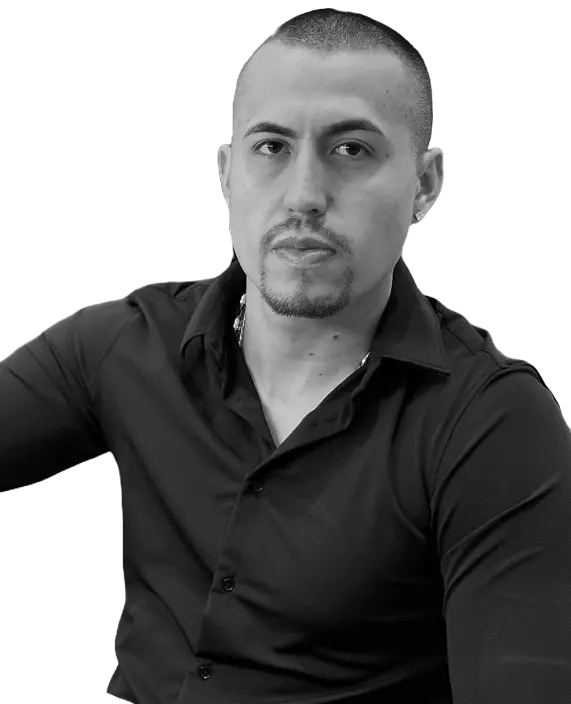
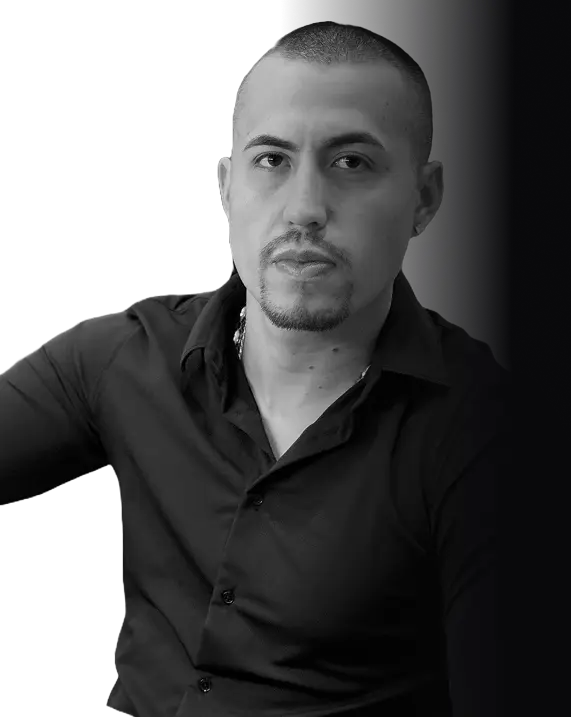
Actualizar estilos y textos en varias secciones para mejorar la presentación y la accesibilidad

diff --git a/src/app/components/ScrollSection.jsx b/src/app/components/ScrollSection.jsx
@@ -36,26 +36,27 @@ function ScrollSection() {
   }, []);
 
   return (
-    <div className="scroll-section-outer">
+    <div className="scroll-section-outer  ">
 
 
-      <div ref={triggerRef} >
-
-      <h2 className="mb-4 mt-12 max-lg:mt-4 tracking-tight max-lg:px-4 text-white max-sm:text-3xl text-4xl lg:w-1/2 m-auto max-xl:w-full max-md:px-2 text-center">
+      <div className="content-scroll" ref={triggerRef} >
+        
+      <h2 className="mb-4 mt-12 max-lg:mt-4 tracking-tight max-lg:px-4 text-white text-2xl md:text-5xl max-xl:text-center  m-auto max-xl:w-full max-md:px-2 text-center">
           Una Vida de Aprendizaje y Superación
         </h2>
 
-        <div ref={sectionRef} className="scroll-section-inner pt-12 max-lg:pt-20 ">
-        <article className="rounded-2xl  w-6xl p-6 max-lg:w-full m-auto flex flex-col gap-2 max-lg:px-4">
-          <h3 className="mb-4 tracking-tight text-white max-sm:text-xl text-2xl max-lg:px-2">
+
+        <div ref={sectionRef} className="scroll-section-inner mt-40  max-md:mt-0">
+        <article className="rounded-2xl  max-w-7xl p-6 max-lg:w-full m-auto flex flex-col gap-2 ">
+          <h3 className="mb-4 text-4xl  tracking-tight text-white max-sm:text-xl  max-lg:px-2">
             Del Sueño a la Realidad
           </h3>
-          <p className="text-zinc-300 descp leading-7 max-2xl:px-2 tracking-wider text-balance break-words">
+          <p className="text-zinc-300 descp leading-7 max-2xl:px-2 tracking-wider text-xl max-sm:text-base  break-words">
             Desde pequeño, entendí que el mundo tenía algo más grande reservado para mí. Crecí viendo a mi familia
             esforzarse sin descanso, y eso encendió en mí una determinación inquebrantable. No quería vivir con
             limitaciones, sabía que mi destino dependía de mis decisiones.
           </p>
-          <p className="text-zinc-300 descp leading-7 max-2xl:px-2 tracking-wider text-balance">
+          <p className="text-zinc-300 descp  text-xl max-sm:text-base leading-7 max-2xl:px-2 tracking-wider ">
             Mi primer negocio lo inicié a los 14 años, negociando con el rector de mi colegio para pasear los perros
             de seguridad a cambio de un pago diario. También vendía dulces en la escuela, aprendiendo el valor de la
             venta y la estrategia. Pero no todo fue aciertos; en mi adolescencia me rodeé de personas que no compartían mis valores, lo que me llevó a tomar decisiones equivocadas. Sin embargo, dentro de mí siempre existió una voz que me recordaba que podía ir más lejos.
@@ -63,45 +64,48 @@ function ScrollSection() {
       
         </article>
         <article className=" rounded-2xl  w-6xl p-6 max-lg:w-full m-auto flex flex-col gap-2 max-lg:px-4">
-            <h3 className="mb-3  text-xl text-white tracking-wider max-sm:text-lg">
-               Renuncia, Fracaso y Renacimiento
+            <h3 className="mb-3  text-4xl text-white tracking-wider max-sm:text-xl">
+            Primer Negocio, Primeras Lecciones
             </h3>
-            <p className="text-zinc-300 leading-7 tracking-wider mb-2 ">
-            Trabajé en una pizzería y, con el apoyo de mi padre, abrí mi propio negocio. Al principio, fue un éxito, pero pronto me di cuenta de que la rutina me consumía. Decidí cerrarla y, como consecuencia, mi padre dejó de apoyarme económicamente. Fue un golpe duro, pero una oportunidad para reinventarme.
-            </p>
-            <p className="text-zinc-300 leading-7 tracking-wider">
-            Trabajé en ventas con marcas reconocidas como Diesel y Comercializadora Baldini, lo que me llevó a estudiar Negocios Internacionales, costeando mi primer semestre con mis propios ahorros. Luego, conseguí una oportunidad en una empresa aliada a Scotiabank Colpatria, donde escalé rápidamente hasta ser contratado por el banco. La estabilidad era tentadora, pero el deseo de emprender nunca desapareció.
-            </p>
-          </article>
-          <article className="  rounded-2xl  w-6xl p-6 max-lg:w-full m-auto flex flex-col gap-2 max-lg:px-4">
-            <h3 className="mb-3 text-xl text-white tracking-wider max-sm:text-lg">
-               Renuncia, Fracaso y Renacimiento
-            </h3>
-            <p className="text-zinc-300 leading-7 tracking-wider mb-2 ">
+            <p className="text-zinc-300 leading-7 tracking-wider mb-2 text-xl max-sm:text-base ">
             Fundé una empresa de eventos y logística mientras trabajaba en el banco. Conseguí contratos importantes, incluso con la misma empresa donde trabajaba. Pero llegó un punto en el que tuve que elegir: estabilidad o independencia. Decidí renunciar.
             </p>
-            <p className="text-zinc-300 leading-7 tracking-wider ">
+            <p className="text-zinc-300 leading-7 tracking-wider text-xl max-sm:text-base ">
             Al principio, todo parecía ir bien, pero sin una estructura financiera sólida, terminé gastando más de lo que generaba. Caí en una crisis financiera y emocional, tocando fondo. Solo, sin apoyo familiar y con deudas, enfrenté la peor etapa de mi vida.
             </p>
-            <p className="text-zinc-300 leading-7 tracking-wider ">
+            <p className="text-zinc-300 leading-7 tracking-wider text-xl max-sm:text-base">
             Pero rendirse nunca fue una opción. Decidí salir del país y empezar de nuevo, con una mentalidad renovada y enfocada en la estrategia.
             </p>
           </article>
-          <article className=" rounded-2xl ]  w-6xl p-6 max-lg:w-full m-auto flex flex-col gap-4 max-lg:px-4">
-            <h3 className="mb-3  text-xl   text-white tracking-wider max-sm:text-lg">
+          <article className="  rounded-2xl  w-6xl p-6 max-lg:w-full m-auto flex flex-col gap-2 max-lg:px-4">
+            <h3 className="mb-3 text-4xl text-white tracking-wider max-sm:text-xl">
+               Renuncia, Fracaso y Renacimiento
+            </h3>
+            <p className="text-zinc-300 leading-7 tracking-wider mb-2 text-xl max-sm:text-base ">
+            Fundé una empresa de eventos y logística mientras trabajaba en el banco. Conseguí contratos importantes, incluso con la misma empresa donde trabajaba. Pero llegó un punto en el que tuve que elegir: estabilidad o independencia. Decidí renunciar.
+            </p>
+            <p className="text-zinc-300 leading-7 tracking-wider text-xl max-sm:text-base ">
+            Al principio, todo parecía ir bien, pero sin una estructura financiera sólida, terminé gastando más de lo que generaba. Caí en una crisis financiera y emocional, tocando fondo. Solo, sin apoyo familiar y con deudas, enfrenté la peor etapa de mi vida.
+            </p>
+            <p className="text-zinc-300 leading-7 tracking-wider text-xl  max-sm:text-base ">
+            Pero rendirse nunca fue una opción. Decidí salir del país y empezar de nuevo, con una mentalidad renovada y enfocada en la estrategia.
+            </p>
+          </article>
+          <article className=" rounded-2xl   w-6xl p-6 max-lg:w-full m-auto flex flex-col gap-4 max-lg:px-4">
+            <h3 className="mb-3  text-4xl max-sm:text-xl   text-white tracking-wider ">
               Construyendo un Imperio
             </h3>
-            <p className="text-zinc-300 leading-7 tracking-wider mb-2 ">
+            <p className="text-zinc-300 leading-7 tracking-wider mb-2 text-xl max-sm:text-base">
             Aprendí que el éxito no solo es cuestión de pasión, sino de estrategia, disciplina y visión a largo plazo.
             </p>
-            <p className="text-zinc-300 leading-7 tracking-wider ">
+            <p className="text-zinc-300 leading-7 tracking-wider text-xl max-sm:text-base">
             Hoy, lidero múltiples negocios:
             </p>
             <ul>
-                <li className="lista text-zinc-300 leading-7 tracking-wider"><span><i className="ri-arrow-right-line"></i> Una empresa de joyería y exportación de oro y diamantes.</span></li>
-                <li className="lista text-zinc-300 leading-7 tracking-wider"><span><i className="ri-arrow-right-line"></i> Una barbería premium.</span></li>
-                <li className="lista text-zinc-300 leading-7 tracking-wider"><span><i className="ri-arrow-right-line"></i>Una agencia digital.</span></li>
-                <li className="lista text-zinc-300 leading-7 tracking-wider"><span><i className="ri-arrow-right-line"></i>Una compañía de logística y venta de partes de aviones.</span></li>
+                <li className="lista text-zinc-300 leading-7 text-xl max-sm:text-base tracking-wider"><span><i className="ri-arrow-right-line"></i> Una empresa de joyería y exportación de oro y diamantes.</span></li>
+                <li className="lista text-zinc-300 leading-7 tracking-wider text-xl max-sm:text-base"><span><i className="ri-arrow-right-line"></i> Una barbería premium.</span></li>
+                <li className="lista text-xl max-sm:text-base text-zinc-300 leading-7 tracking-wider"><span><i className="ri-arrow-right-line"></i>Una agencia digital.</span></li>
+                <li className="lista text-xl max-sm:text-base text-zinc-300 leading-7 tracking-wider"><span><i className="ri-arrow-right-line"></i>Una compañía de logística y venta de partes de aviones.</span></li>
             </ul>
           </article>
           

diff --git a/src/app/sections/Hero.jsx b/src/app/sections/Hero.jsx
@@ -1,35 +1,41 @@
-import { motion } from "framer-motion";
 import heroImg from "../../../public/hero.webp"
-export const Hero = () => {
-  return (
-    <section className="text-white w-full  bg-black h-full
-    ">
-          <div className="flex flex-row-reverse max-lg:grid-cols-1  max-lg:flex-col max-w-[1600px]  mx-auto justify-between ">
-     
-            
-
-            <div className=" basis-6/12 flex flex-col bg-black p-10 max-lg:p-4">
-            <motion.h1
+import {motion} from "framer-motion"
+export const Ero = () => {
+    return (
+      <section className="  flex max-xl:flex-col-reverse pt-10  justify-center max-w-[1600px] mx-auto  relative bg-black">
+        {/* Contenedor de la imagen */}
+        <div className=" 2xl:basis-6/12 w-full h-full relative z-10 ">
+          <img 
+            src={heroImg.src}
+            alt="Historia de éxito"
+            className="img h-full  mx-auto object-cover"
+          />
+        </div>
+  
+        {/* Contenido superpuesto */}
+        <div className="relative z-20  xl:-ml-40 py-20  text-white">
+          <div className="flex flex-col gap-4 max-xl:px-4">
+          <motion.h1
               initial={{ opacity: 0, y: 20 }}
               whileInView={{ opacity: 1, y: 0 }}
               transition={{ duration: 0.8 }}
-              className="text-4xl md:text-6xl lg:text-8xl font-bold leading-tight max-lg:text-center"
+              className="text-4xl md:text-6xl lg:text-8xl font-bold leading-tight max-xl:text-center"
             >
               De la adversidad <br />
             </motion.h1>
-              <motion.span
+            <motion.span
               initial={{ opacity: 0, y: 20 }}
               whileInView={{ opacity: 1, y: 0 }}
               transition={{ duration: 0.8 }}
-              className="bg-clip-text text-transparent bg-gradient-to-l from-white to-slate-400 text-4xl md:text-6xl lg:text-8xl font-bold leading-tight max-lg:text-center">
+              className=" text-4xl md:text-6xl lg:text-8xl font-bold text-center max-sm:px-0 leading-tight px-40 ">
                 al éxito
               </motion.span>
-    
-            <motion.h2
+            
+              <motion.h2
               initial={{ opacity: 0, y: 20 }}
               whileInView={{ opacity: 1, y: 0 }}
               transition={{ duration: 0.8, delay: 0.2 }}
-              className="text-2xl md:text-3xl max-lg:text-center mt-6 "
+              className="text-2xl md:text-5xl max-xl:text-center  mt-8 "
             >
               Mi historia de transformación y crecimiento
             </motion.h2>
@@ -38,23 +44,19 @@ export const Hero = () => {
               initial={{ opacity: 0, y: 20 }}
               whileInView={{ opacity: 1, y: 0 }}
               transition={{ duration: 0.8, delay: 0.4 }}
-              className="text-lg md:text-xl text-zinc-300 mt-4  lg:max-w-lg max-lg:w-full max-lg:text-center"
+              className="text-lg md:text-xl text-white  max-lg:w-full max-xl:text-center xl:pr-10 "
             >
               De trabajador en una pizzería a fundador de múltiples negocios
               exitosos. Descubre cómo convertí mis fracasos en mi mayor fortaleza.
             </motion.p>
-          </div> 
-              
-          <img
-                className="img basis-6/12 w-full h-screen object-cover oscuro"
-                src={heroImg.src}
-                alt="Imagen de Barbershop"
-              />
-              <motion.div
+  
+          </div>
+        </div>
+            <motion.div
         initial={{ opacity: 0, y: 20 }}
         whileInView={{ opacity: 1, y: 0 }}
         transition={{ duration: 0.8, delay: 0.6 }}
-        className="absolute bottom-10 left-1/2 -translate-x-1/2 z-10"
+        className="absolute bottom-2 left-1/2 -translate-x-1/2 z-10"
       >
         <a
           className="flex flex-col items-center justify-center transition tracking-wider text-zinc-400"
@@ -63,10 +65,8 @@ export const Hero = () => {
           scroll to find more
           <i className="ri-arrow-drop-down-line text-2xl"></i>
         </a>
-      </motion.div>
-          </div>
-        </section>
-  );
-};
-
-       
+               </motion.div>
+      </section>
+    );
+  };
+  

diff --git a/src/app/page.js b/src/app/page.js
@@ -8,10 +8,9 @@ import { Joyeria } from "./sections/Joyeria";
 import 'remixicon/fonts/remixicon.css'
 import Lenis from "@studio-freight/lenis";
 import { useEffect } from "react";
-import { Hero } from "./sections/Hero";
-import ScrollSection from "./components/ScrollSection";
-import { PreCta } from "./sections/PreCta";
 
+import { PreCta } from "./sections/PreCta";
+import { Hero } from "./sections/Hero";
 
 export default function Home() {
   
@@ -39,9 +38,10 @@ export default function Home() {
   
   
   return (
-    <main >
+    <main className="bg-black">
       <Intro>
-        <Hero/>
+      <Hero/>
+        
       </Intro>
       <History/>   
       <Barbershop/>

diff --git a/src/app/layout.js b/src/app/layout.js
@@ -1,8 +1,8 @@
 import "./globals.css";
-import { Space_Grotesk } from "next/font/google";
+import { Syne } from "next/font/google";
 import 'remixicon/fonts/remixicon.css'
 
-const spaceGrotesk = Space_Grotesk({ subsets: ["latin"], weight: ["400", "700"] });
+const syne = Syne({ subsets: ["latin"], weight: ["400", "700"] });
 
 export const metadata = {
   title: "Landing Page",
@@ -12,7 +12,7 @@ export const metadata = {
 export default function RootLayout({ children }) {
   return (
     <html lang="es">
-      <body className={`${spaceGrotesk.className} `}>
+      <body className={`${syne.className} `}>
         {children}
       </body>
     </html>

diff --git a/src/app/globals.css b/src/app/globals.css
@@ -38,14 +38,15 @@
 
 .scroll-section-outer {
   overflow: hidden;
+
 }
 
 .scroll-section-inner {
 
   width: 400vw;
   display: grid;
-  grid-template-columns: repeat(4, 1fr);
-  position: relative;
+  grid-template-columns: 1fr 1fr 1fr 1fr;
+
   gap: 1rem;
 }
 
@@ -54,10 +55,18 @@
   background-position: center;
   background-repeat: no-repeat;
   height: 400px;
-  transition: 0.3s ;
+  transition: 0.3s;
 }
+
+
+
 @media (max-width:760px ){
     .scroll-section-inner article{
+      height: 100%;
+      
+    }
+    .scroll-section-outer {
+      overflow: hidden;
       height: 100%;
     }
 }

diff --git a/src/app/components/Intro.jsx b/src/app/components/Intro.jsx
@@ -13,8 +13,8 @@ export default function Intro({children}) {
     const y = useTransform(scrollYProgress, [0, 1], ["0vh", "150vh"])
   
     return (
-      <div className='h-screen overflow-hidden bg-gradient-to-r from-black to-slate-800'>
-        <motion.div style={{y}} className='relative  h-screen'>
+      <div className=' overflow-hidden'>
+        <motion.div style={{y}} className='relative '>
           {children}
         </motion.div>
       </div>

diff --git a/src/app/sections/PreCta.jsx b/src/app/sections/PreCta.jsx
@@ -11,7 +11,7 @@ export const PreCta = () => {
           <img
             className=" w-full  object-cover aspect-square"
             src={preCtaImg.src}
-            alt="Imagen de Barbershop"
+            alt="Imagen de Emprendedor Exitoso"
           />
           <p className="text-xl text-white px-3 pt-3 pb-2">Jacob Hofstadter</p>
           <a className="text-zinc-300 cursor-pointer px-3 underline

diff --git a/src/app/sections/Joyeria.jsx b/src/app/sections/Joyeria.jsx
@@ -84,7 +84,7 @@ export const Joyeria = () => {
           <img
             className=" w-full  object-cover aspect-square"
             src={joyeriaImg.src}
-            alt="Imagen de Barbershop"
+            alt="Imagen de Joyeria"
           />
           <p className="text-xl text-white px-3 pt-3 pb-2">Joyería Exclusiva</p>
           <span className="text-zinc-300 px-3

diff --git a/src/app/sections/Barbershop.jsx b/src/app/sections/Barbershop.jsx
@@ -3,7 +3,7 @@ import barberImg from "../../../public/barber.webp";
 
 export const Barbershop = () => {
   return (
-    <section className="text-white w-full py-16 oscuro">
+    <section className="text-white w-full py-16 oscuro ">
         <motion.h2
               initial={{ opacity: 0, y: 20 }}
               whileInView={{ opacity: 1, y: 0 }}

diff --git a/src/app/sections/History.jsx b/src/app/sections/History.jsx
@@ -2,9 +2,9 @@ import ScrollSection from "../components/ScrollSection";
 
 export const History = () => {
   return (
-    <section className=" py-8 md:py-24 scroll">
+    <section className="pb-40 scroll ">
       <div>
-        
+
          <ScrollSection/>
        
       </div>
